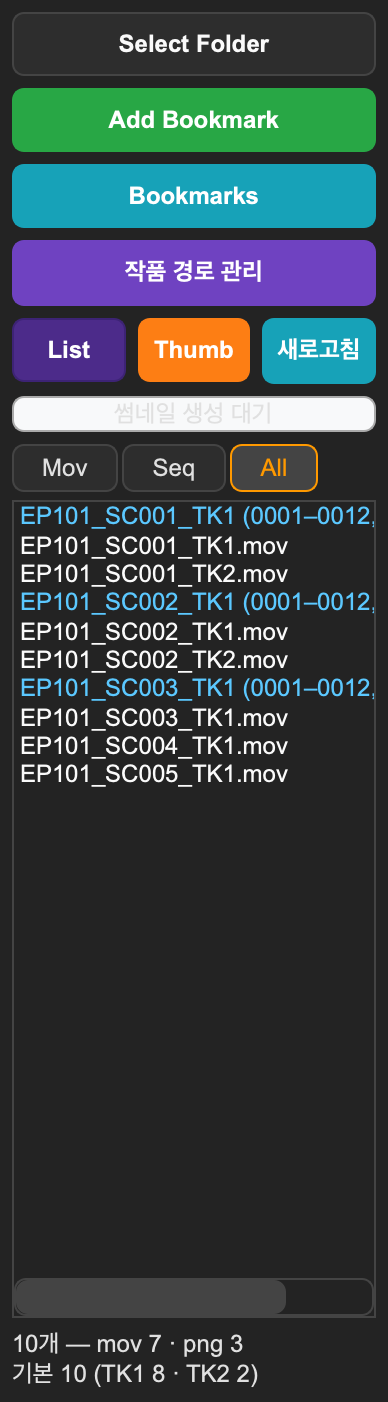
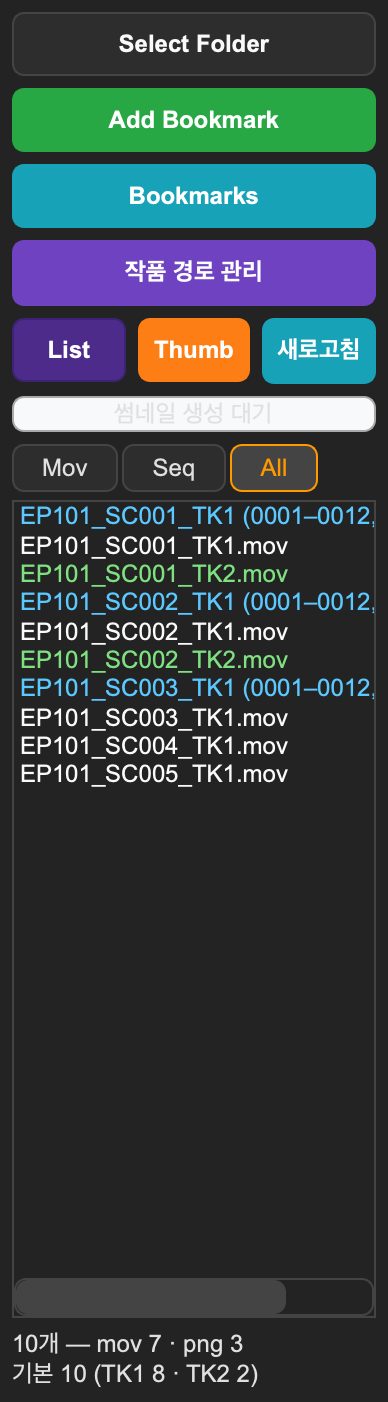
사이드바: 테이크·버전 번호가 2 이상인 영상은 번호마다 다른 글자색
사용자 요청 "테이크 넘버가 다른 건 다른 컬러로 … 시퀀스가 푸른색이니까 이 색깔 피해서"·"화이트 테마에서도 가독성 체크".
- 규칙 sidebar_take_colors(Qt 없음): 개수 줄과 같은 규칙으로 번호를 읽고, 1번·번호 없음은 테마 기본색,
  2번부터 넷을 돌려 씀(초록·분홍·보라·연두). 시퀀스 하늘색·재생 중 빨강·선택 주황과 hue 25도 넘게 떨어지고,
  두 테마 모두 목록 바탕과 명암 대비 4.5:1 이상(시험이 지킴).
- 칠하기 SidebarAllMixin: 새 항목만(개수 줄과 같은 미룸), 테마를 바꾸면 전부 다시(재생 중인 줄은 빨강 그대로).
  All 탭의 영상 사본도 같은 색, 시퀀스는 하늘색 그대로. 선택 재생의 되돌리기가 테이크 색을 덮지 않음.
- 매뉴얼: 사이드바 쪽 '테이크·버전 색' 절, 목록이 보이는 그림 7장 다시 찍음.

diff --git a/tests/test_sidebar_take_colors.py b/tests/test_sidebar_take_colors.py
@@ -1,0 +1,184 @@
+"""사이드바 Mov 항목의 테이크·버전별 글자색 (2026-11-12 — 사용자 요청 "테이크 넘버가 다른 건 다른 컬러로 … 시퀀스가 푸른색이니까
+이 색깔 피해서").
+
+- 테이크·버전 번호는 개수 줄과 같은 규칙(sidebar_counts.kind_and_version — 이름 끝의 TK·v + 숫자)으로 읽음.
+- 1번(TK1·v01·v001)과 번호 없는 이름은 테마 기본색(따로 칠하지 않음), 2번부터 번호마다 색 — 넷을 돌려 씀.
+- 색은 이미 뜻이 있는 색을 피함: All 탭의 시퀀스(하늘색), 선택 재생 중인 항목(빨강), 어두운 테마의 선택 항목(주황).
+- 창: 목록이 바뀌면·테마를 바꾸면 다시 칠하고, All 탭의 mov 사본도 같은 색(시퀀스는 하늘색 그대로), 선택 재생이 끝나도 테이크 색이 남음.
+"""
+
+import colorsys
+
+import pytest
+from PyQt5.QtCore import Qt
+from PyQt5.QtGui import QColor
+
+from tests.conftest import write_test_video
+from tests.test_sequence_capture import make_seq
+from tests.test_sidebar_all_tab import show_all_tab, wait_rebuild
+from tests.test_thumbnails import drop_folder
+from tests.test_work_paths_ui import make_config, new_player  # noqa: F401 (new_player: fixture)
+from yesoncheck.sidebar_all import ALL_SEQ_FG
+from yesoncheck.sidebar_take_colors import TAKE_COLORS, take_color, take_number
+
+RESERVED = {"dark": {"sequence": ALL_SEQ_FG["dark"], "playing": "#ff0000", "selected": "#ff9900"},
+            "light": {"sequence": ALL_SEQ_FG["light"], "playing": "#ff0000"}}
+
+# ---------------------------------------------------------------- 규칙 (Qt 없음)
+
+
+@pytest.mark.parametrize("stem, number", [
+    ("EP101_SC001_TK1", 1), ("EP101_SC001_TK2", 2), ("EP101_SC001_tk3", 3),
+    ("KOTH_1604_010_v001", 1), ("KOTH_1604_010_v002", 2), ("HH_305_010_OSAN_v04", 4),
+    ("FL_106_010_TK2_HD", 2),  # 종류가 뒤에 붙은 이름 — 버전은 그 앞
+    ("FL_106_V005_TK1", 1),  # 샷 코드 V005는 버전이 아님 (끝의 TK1이 테이크)
+    ("EP101_SC001", None), ("tk2", None), ("final", None),
+])
+def test_take_number_follows_the_count_line_rule(stem, number):
+    assert take_number(stem) == number
+
+
+@pytest.mark.parametrize("theme", ["dark", "light"])
+def test_first_take_and_unnumbered_names_keep_the_theme_colour(theme):
+    for stem in ("EP101_SC001_TK1", "EP101_SC001_v001", "EP101_SC001", "EP101_SC001_v000"):
+        assert take_color(stem, theme) is None
+
+
+@pytest.mark.parametrize("theme", ["dark", "light"])
+def test_each_later_take_has_its_own_colour_and_the_colours_repeat(theme):
+    colors = [take_color(f"EP101_SC001_TK{n}", theme) for n in range(2, 6)]
+    assert colors == list(TAKE_COLORS[theme])
+    assert len(set(colors)) == 4
+    assert take_color("EP101_SC001_TK6", theme) == colors[0]  # 넷을 돌려 씀
+    assert take_color("EP101_SC001_v02", theme) == colors[0]  # v도 TK와 같은 번호 색
+
+
+def test_unknown_theme_is_an_error():
+    with pytest.raises(KeyError):
+        take_color("EP101_SC001_TK2", "sepia")
+
+
+def hue(color):
+    red, green, blue = (int(color[i:i + 2], 16) / 255 for i in (1, 3, 5))
+    return colorsys.rgb_to_hsv(red, green, blue)[0] * 360
+
+
+def hue_distance(a, b):
+    diff = abs(hue(a) - hue(b)) % 360
+    return min(diff, 360 - diff)
+
+
+@pytest.mark.parametrize("theme", ["dark", "light"])
+def test_take_colours_stay_away_from_colours_that_already_mean_something(theme):
+    """시퀀스(하늘색)·재생 중(빨강)·선택(주황)과 색상(hue)이 25도 넘게 떨어져 있음 — 사용자 지시 '시퀀스 색을 피해서'."""
+    for color in TAKE_COLORS[theme]:
+        for meaning, reserved in RESERVED[theme].items():
+            assert hue_distance(color, reserved) > 25, (theme, color, meaning)
+
+
+def luminance(color):
+    channels = [int(color[i:i + 2], 16) / 255 for i in (1, 3, 5)]
+    linear = [c / 12.92 if c <= 0.03928 else ((c + 0.055) / 1.055) ** 2.4 for c in channels]
+    return 0.2126 * linear[0] + 0.7152 * linear[1] + 0.0722 * linear[2]
+
+
+def contrast(a, b):
+    high, low = sorted((luminance(a), luminance(b)), reverse=True)
+    return (high + 0.05) / (low + 0.05)
+
+
+# 목록 줄의 바탕 (main_window_styles의 QListWidget 규칙): 어두운 테마, 밝은 테마의 보통 줄·마우스를 올린 줄
+LIST_BACKGROUNDS = {"dark": ("#232323",), "light": ("#ffffff", "#f8f9fa")}
+
+
+@pytest.mark.parametrize("theme", ["dark", "light"])
+def test_take_colours_are_readable_on_the_list_background(theme):
+    """목록 바탕과의 명암 대비가 본문 글자 기준(WCAG AA 4.5:1) 이상 — 사용자 지시 "화이트 테마에서도 가독성 떨어지는지 체크"."""
+    for color in TAKE_COLORS[theme]:
+        for background in LIST_BACKGROUNDS[theme]:
+            assert contrast(color, background) >= 4.5, (theme, color, background)
+
+
+# ---------------------------------------------------------------- 창
+
+@pytest.fixture
+def player(new_player, dialogs, tmp_path):  # noqa: F811
+    return new_player(make_config(str(tmp_path), {}))
+
+
+def shots(tmp_path):
+    """테이크가 섞인 영상 넷(번호 없음·TK1·TK2·v03)과 TK2 시퀀스 하나가 든 폴더."""
+    folder = tmp_path / "shots"
+    for name in ("SH010.mov", "SH010_TK1.mov", "SH010_TK2.mov", "SH020_v03.mov"):
+        write_test_video(str(folder / name))
+    make_seq(str(folder), "SH030_TK2", range(1, 4))
+    return folder
+
+
+def loaded(player, qapp, tmp_path):
+    drop_folder(player, "video", shots(tmp_path))
+    qapp.processEvents()
+    return player
+
+
+def color_of(item):
+    """항목에 따로 칠한 글자색(없으면 None — 테마 시트의 기본색)."""
+    brush = item.data(Qt.ForegroundRole)
+    return None if brush is None else QColor(brush).name()
+
+
+def mov_colors(player):
+    return {player.sidebar.item(i).text(): color_of(player.sidebar.item(i)) for i in range(player.sidebar.count())}
+
+
+def expected(theme):
+    green, pink = TAKE_COLORS[theme][0], TAKE_COLORS[theme][1]
+    return {"SH010.mov": None, "SH010_TK1.mov": None, "SH010_TK2.mov": green, "SH020_v03.mov": pink}
+
+
+def test_mov_items_are_coloured_by_take(player, qapp, tmp_path):
+    assert mov_colors(loaded(player, qapp, tmp_path)) == expected("dark")
+
+
+def test_colours_follow_the_theme(player, qapp, tmp_path):
+    loaded(player, qapp, tmp_path)
+    player.set_light_theme()
+    qapp.processEvents()
+    assert mov_colors(player) == expected("light")
+    player.set_dark_theme()
+    qapp.processEvents()
+    assert mov_colors(player) == expected("dark")
+
+
+def test_all_tab_shows_take_colours_on_movies_and_keeps_sequences_sky_blue(player, qapp, tmp_path):
+    loaded(player, qapp, tmp_path)
+    show_all_tab(player, qapp)
+    wait_rebuild(qapp)
+    assert player.all_sidebar.count() == 5
+    colors = {player.all_sidebar.item(i).text(): color_of(player.all_sidebar.item(i)) for i in range(player.all_sidebar.count())}
+    sequence = [name for name in colors if name not in expected("dark")]
+    assert len(sequence) == 1
+    assert colors == {**expected("dark"), sequence[0]: ALL_SEQ_FG["dark"]}  # TK2 시퀀스도 테이크 색이 아니라 하늘색
+
+
+def test_take_colours_survive_play_selected(player, qapp, tmp_path):
+    """선택 재생이 끝나 강조를 되돌릴 때(reset_sidebar_colors) 테마 기본색으로 덮지 않음."""
+    loaded(player, qapp, tmp_path)
+    for i in range(player.sidebar.count()):
+        player.sidebar.item(i).setForeground(QColor("red"))  # 재생 중 강조가 지나간 자리
+    player.reset_sidebar_colors()
+    assert mov_colors(player) == expected("dark")
+
+
+def test_item_being_played_stays_red_when_the_list_is_repainted(player, qapp, tmp_path):
+    """선택 재생 중인 항목(빨강)은 목록이 바뀌거나 테마를 바꿔 다시 칠할 때도 그대로."""
+    loaded(player, qapp, tmp_path)
+    playing = [player.sidebar.item(i) for i in range(player.sidebar.count()) if player.sidebar.item(i).text() == "SH010_TK2.mov"][0]
+    player.playlist = [playing.toolTip()]
+    player.current_playlist_index = 0
+    player.is_playlist_playing = True
+    playing.setForeground(QColor("red"))
+    player.set_light_theme()
+    qapp.processEvents()
+    assert color_of(playing) == "#ff0000"
+    assert mov_colors(player) == {**expected("light"), "SH010_TK2.mov": "#ff0000"}

diff --git a/yesoncheck/sidebar_all.py b/yesoncheck/sidebar_all.py
@@ -12,14 +12,17 @@
 player_sidebar를 모듈 수준에서 import하지 말 것 (순환 — 다른 사이드바 믹스인과 같음).
 """
 
+import os
+
 from PyQt5.QtCore import QItemSelection, QItemSelectionModel, Qt, QTimer
-from PyQt5.QtGui import QColor
+from PyQt5.QtGui import QBrush, QColor
 from PyQt5.QtWidgets import QMenu
 
 from yesoncheck import paths
 from yesoncheck.file_names import natural_key
 from yesoncheck.sidebar_counts import count_text
 from yesoncheck.sidebar_items import ALL_KIND_ROLE
+from yesoncheck.sidebar_take_colors import take_color
 
 # All 탭 시퀀스 항목 글자 색 — 테마별 하늘색 (주황 선택 강조·흰/검 기본색 어느 쪽과도 구분)
 ALL_SEQ_FG = {"dark": "#5bc8ff", "light": "#0b6ea8"}
@@ -71,6 +74,7 @@ class SidebarAllMixin:
         self._count_timer.setSingleShot(True)
         self._count_timer.setInterval(0)
         self._count_timer.timeout.connect(self._update_sidebar_count)
+        self._count_timer.timeout.connect(lambda: self._apply_take_colors())  # 새로 들어온 Mov 항목을 테이크 색으로 (같은 미룸)
         for model in (self.sidebar.model(), self.seq_sidebar.model()):
             model.rowsInserted.connect(self._schedule_sidebar_count)
             model.rowsRemoved.connect(self._schedule_sidebar_count)
@@ -90,6 +94,38 @@ class SidebarAllMixin:
         sequences = [(seq.base, seq.ext) for seq in (self.seq_sidebar.item(i).data(Qt.UserRole)
                                                        for i in range(self.seq_sidebar.count()))]
         self.sidebar_count_label.setText(count_text(tab, movies, sequences))
+
+    # ---------------------------------------------------------------- 테이크·버전 색 (Mov 항목 — 규칙은 sidebar_take_colors)
+
+    def _paint_mov_item(self, item):
+        """Mov 항목 하나를 제 글자색으로: 테이크·버전 2번부터는 그 색, 아니면 따로 칠한 색을 지움(테마 시트의 기본색).
+        이미 그 색이면 건드리지 않음(모델 신호 없음 — All 목록을 다시 만들지 않음)."""
+        stem = os.path.splitext(os.path.basename(item.data(Qt.UserRole)))[0]
+        color = take_color(stem, self.current_theme)
+        brush = None if color is None else QBrush(QColor(color))
+        if item.data(Qt.ForegroundRole) != brush:
+            item.setData(Qt.ForegroundRole, brush)
+
+    def _playing_playlist_file(self):
+        """선택 재생이 지금 재생 중인 영상(그 항목은 빨강 — 다시 칠하지 않음), 없으면 None."""
+        if not self.is_playlist_playing or not 0 <= self.current_playlist_index < len(self.playlist):
+            return None
+        return self.playlist[self.current_playlist_index]
+
+    def _apply_take_colors(self, repaint=False):
+        """Mov 목록 항목을 테이크 색으로 칠함. 목록이 바뀐 뒤(개수 줄과 같은 미룸)에는 **아직 칠한 적 없는 항목만**(따로 칠한 글자색이
+        없는 것 — 새 항목은 늘 그렇게 들어옴): 이미 칠한 항목(테이크 색·선택 재생 강조)은 목록을 다시 읽어도 그대로 둠.
+        repaint=True(테마를 바꾼 뒤 — 색이 테마마다 다름)는 전부 다시, 선택 재생 중인 항목(빨강)만 빼고.
+        All 목록의 mov 사본은 원본을 복제하므로 따라옴(원본의 dataChanged → 다시 만들기), 시퀀스는 하늘색 그대로."""
+        if getattr(self, "_count_timer", None) is None:  # 테마 적용이 initUI보다 먼저 부를 수 있음
+            return
+        playing = self._playing_playlist_file()
+        for i in range(self.sidebar.count()):
+            item = self.sidebar.item(i)
+            if playing is not None and paths.same_path(item.toolTip(), playing):
+                continue
+            if repaint or item.data(Qt.ForegroundRole) is None:
+                self._paint_mov_item(item)
 
     def _schedule_all_rebuild(self, *_args):
         """All 탭이 보이는 동안만 미뤄서 다시 만듦 (숨은 동안의 변화는 탭을 열 때 한 번에)."""

diff --git a/yesoncheck/sidebar_take_colors.py b/yesoncheck/sidebar_take_colors.py
@@ -1,0 +1,38 @@
+"""사이드바 Mov 항목의 테이크·버전별 글자색 — 규칙만 (Qt 없음. 칠하는 일은 sidebar_all.SidebarAllMixin).
+
+사용자 요청(2026-11-12): "테이크 넘버가 다른 건 다른 컬러로 표시하면 가독성이 좋을 거 같아 … 시퀀스가 푸른색이니까 이 색깔 피해서".
+
+- 번호는 개수 줄과 **같은 규칙**(sidebar_counts.kind_and_version — 이름 끝의 TK·v + 숫자, 그 뒤에 종류가 붙어도 됨)으로 읽음:
+  목록 아래의 `TK1 243 · TK2 6`과 목록의 색이 어긋나지 않게.
+- 1번(TK1·v01·v001)·0번·번호 없는 이름은 None — 따로 칠하지 않고 테마 기본색. 대부분의 파일이 여기라 색이 든 줄이 곧 '다시 한 테이크'.
+- 2번부터 번호마다 색, 넷을 돌려 씀(2 초록 · 3 분홍 · 4 보라 · 5 연두 · 6 초록 …). 이미 뜻이 있는 색은 피함: All 탭의 시퀀스(하늘색
+  sidebar_all.ALL_SEQ_FG), 선택 재생 중인 항목(빨강), 어두운 테마의 선택 항목(주황 #ff9900) — 시험이 색상(hue) 거리로 지킴.
+  밝은 테마의 색은 흰 목록 바탕에서 읽히게 어두운 쪽 — 두 테마 모두 목록 바탕(밝은 테마는 마우스를 올린 줄 포함)과의 명암 대비가
+  4.5:1 이상(시험이 지킴; 실측 어두운 7.6~11.2:1, 밝은 5.1~6.5:1).
+- 고른 줄은 테이크 색이 아니라 목록 시트의 선택 글자색(어두운 테마 주황·밝은 테마 기본색)으로 보임 — 시트의 ::item:selected가 우선.
+"""
+
+from yesoncheck.sidebar_counts import VERSION_TOKEN, kind_and_version
+
+# 테마 → 2·3·4·5번째 테이크의 색 (그 뒤는 처음부터 다시)
+TAKE_COLORS = {
+    "dark": ("#7ee081", "#ff8fd0", "#c9a7ff", "#d7e35a"),
+    "light": ("#187a35", "#c2187a", "#6f42c1", "#766c00"),
+}
+
+
+def take_number(stem):
+    """이름(확장자 뺀)의 테이크·버전 번호 — 없으면 None."""
+    _kind, version = kind_and_version(stem)
+    if version is None:
+        return None
+    return int(VERSION_TOKEN.fullmatch(version).group(2))
+
+
+def take_color(stem, theme):
+    """이름의 테이크·버전 색("#rrggbb") — 1번 이하·번호 없음이면 None(테마 기본색). 모르는 테마는 KeyError."""
+    colors = TAKE_COLORS[theme]
+    number = take_number(stem)
+    if number is None or number < 2:
+        return None
+    return colors[(number - 2) % len(colors)]

diff --git a/yesoncheck/sidebar_playlist.py b/yesoncheck/sidebar_playlist.py
@@ -114,11 +114,7 @@ class SidebarPlaylistMixin:
                 if is_current:
                     item.setForeground(QColor("red"))  # 현재 재생 중인 항목은 빨간색
                 else:
-                    # 현재 테마에 맞는 색상으로 설정
-                    if self.current_theme == 'dark':
-                        item.setForeground(QColor("#fafafa"))  # 블랙 테마에서는 밝은 색상
-                    else:
-                        item.setForeground(QColor("#2c3e50"))  # 라이트 테마에서는 어두운 색상
+                    self._paint_mov_item(item)  # 제 글자색으로: 테이크 색 또는 테마 기본색 (SidebarAllMixin)
             
             # 파일 열기 및 재생
             try:
@@ -199,11 +195,7 @@ class SidebarPlaylistMixin:
             item = self.sidebar.item(i)
             font = item.font(); font.setBold(False)
             item.setFont(font)
-            # 현재 테마에 맞는 색상으로 설정
-            if self.current_theme == 'dark':
-                item.setForeground(QColor("#fafafa"))  # 블랙 테마에서는 밝은 색상
-            else:
-                item.setForeground(QColor("#2c3e50"))  # 라이트 테마에서는 어두운 색상
+            self._paint_mov_item(item)  # 제 글자색으로: 테이크 색 또는 테마 기본색 (SidebarAllMixin)
 
     def play_next_in_playlist(self):
         if self._playlist_resolving:

diff --git a/yesoncheck/manual_content.py b/yesoncheck/manual_content.py
@@ -288,6 +288,15 @@ PAGES = (
                  "Seq 탭은 프레임 수가 아니라 시퀀스 수를 셉니다. 예: `시퀀스 3개`",
                  "All 탭은 첫 줄에 포맷별 개수(`10개 — mov 7 · png 3`), 둘째 줄에 종류·버전을 보입니다.",
              )),
+             ("h", "테이크·버전 색", "takes"),
+             ("p", "영상 이름 끝의 테이크·버전 번호가 2 이상이면 그 줄의 글자가 번호마다 다른 색으로 보입니다 — 다시 한 테이크가 "
+                   "한눈에 보입니다. 번호를 읽는 규칙은 개수 줄과 같습니다."),
+             ("list", (
+                 "**1번**(`TK1`·`v01`)과 번호가 없는 이름은 기본색, **2번** 초록, **3번** 분홍, **4번** 보라, **5번** 연두 — "
+                 "6번부터는 다시 초록부터 돌려 씁니다.",
+                 "Mov 탭과 All 탭의 영상에 적용됩니다. All 탭의 이미지 시퀀스는 테이크와 상관없이 하늘색입니다.",
+                 "고른 줄과 선택 재생 중인 줄(빨강)은 그 색이 먼저입니다.",
+             )),
              ("h", "목록 모드와 썸네일 모드", "thumbs"),
              ("fig", "thumbnails", "Thumb을 누른 썸네일 모드", ()),
              ("list", (

diff --git a/yesoncheck/player_base.py b/yesoncheck/player_base.py
@@ -1299,12 +1299,14 @@ class VideoPlayerBase(PlayerHoverThumbsMixin, PlayerOcrMixin, PlayerOverlayMixin
         self.setStyleSheet(DARK_STYLESHEET)
         self.current_theme = 'dark'
         self.videoWidget.apply_theme_background('dark')  # GL 뷰포트는 스타일시트 배경 칠을 받지 않음
+        self._apply_take_colors(repaint=True)  # Mov 항목의 테이크 색은 테마마다 다름
         self._schedule_all_rebuild()  # All 탭 시퀀스 글자 색을 테마에 맞춤
 
     def set_light_theme(self):
         self.setStyleSheet(LIGHT_STYLESHEET)
         self.current_theme = 'light'
         self.videoWidget.apply_theme_background('light')  # GL 뷰포트는 스타일시트 배경 칠을 받지 않음
+        self._apply_take_colors(repaint=True)  # Mov 항목의 테이크 색은 테마마다 다름
         self._schedule_all_rebuild()  # All 탭 시퀀스 글자 색을 테마에 맞춤
 
     def toggle_theme(self):
